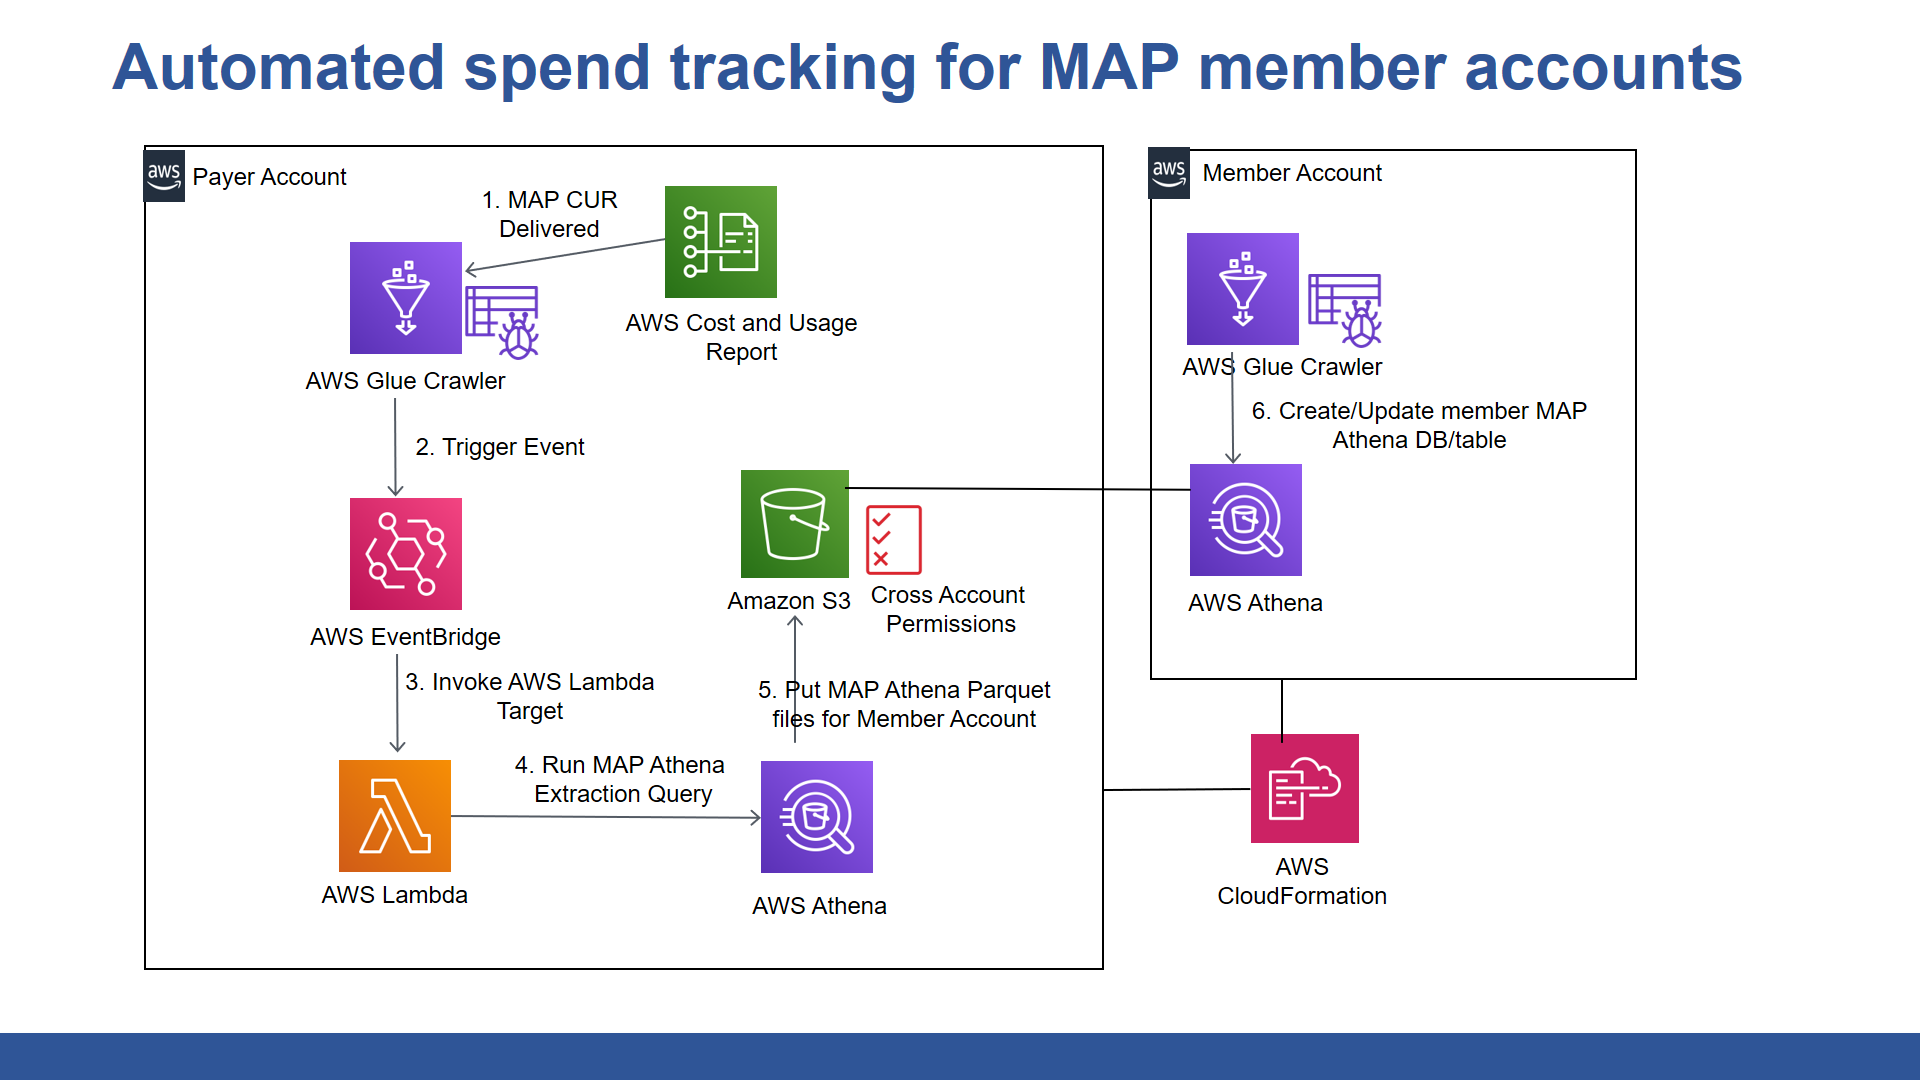
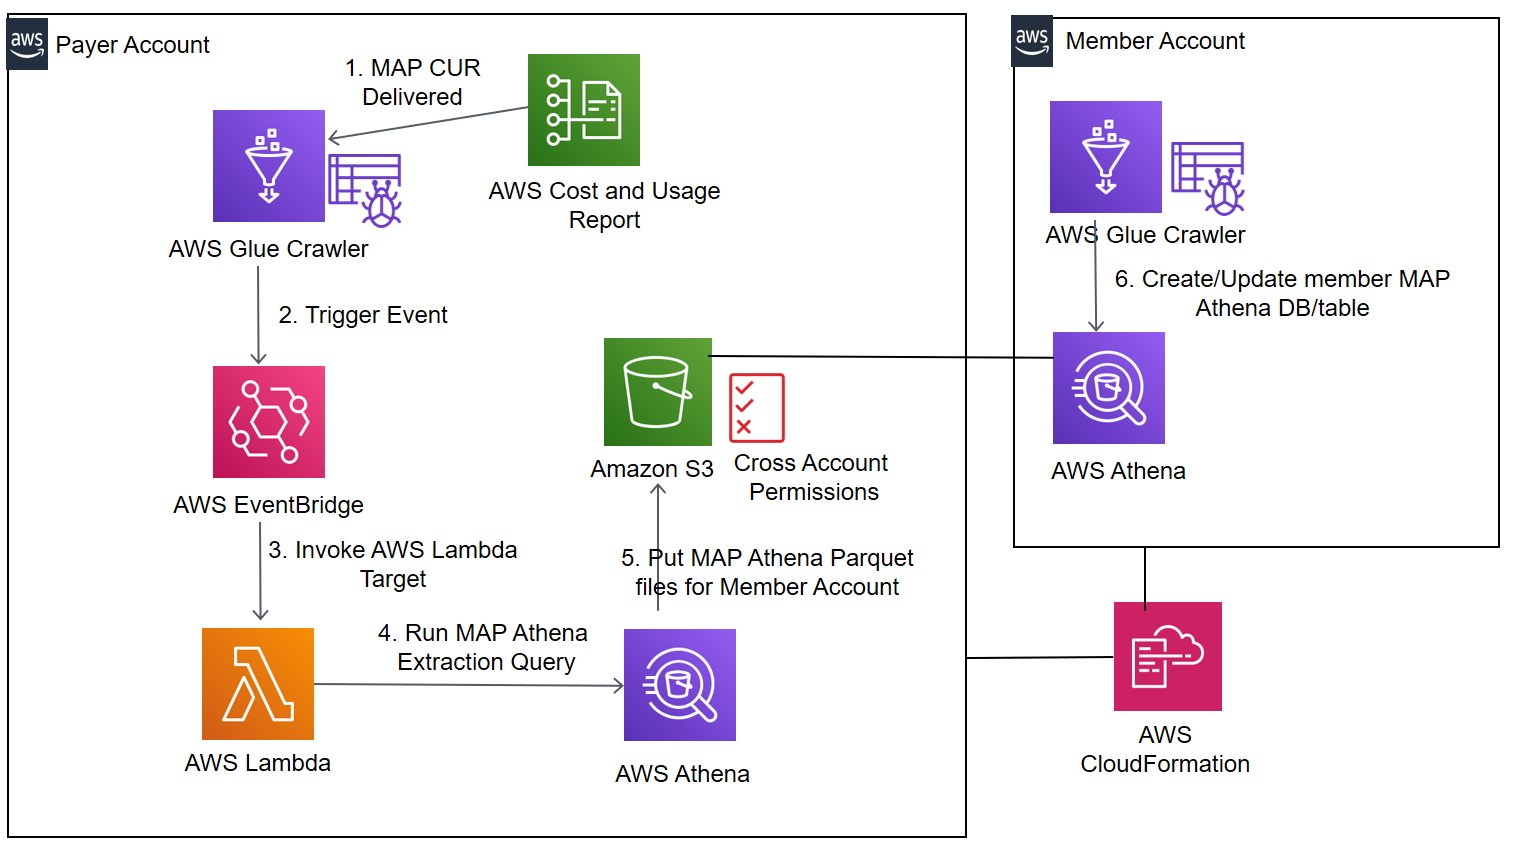
updated arch

diff --git a/README.md b/README.md
@@ -1,19 +1,22 @@
 <p align="center">
 </p>
 
-# Automating spend and credits tracking for member accounts in the AWS Migration Acceleration Program (MAP) 
+# Automating spend tracking for MAP member accounts
 
 Provides fully automated tracking to member account owners on both their spend and credits for their MAP tagged resources
 
 
 ## How it Works
 
-1.	A custom AWS Config Rule uses the AWS Config Rule Development Kit and CloudKnox REST API to record and evaluate a CloudKnox PCI (Privilege Creep Index) score for every AWS IAM user in your AWS account
-2.	If the CloudKnox PCI score is high for that AWS IAM user then AWS Config triggers an automated remediation in real time using AWS Systems Manager Automation
-3.	The AWS Systems Manager Automation invokes an AWS Lambda function for rightsizing the permissions of an AWS IAM user with a high Privileged Creep Index (PCI) score
-4.	The AWS Lambda function invokes the CloudKnox Just Enough Privileges (JEP) Controller REST API to retrieve the rightsized IAM policy for the user based on the user’s previous activity
-5.	The AWS Lambda function provisions the retrieved AWS IAM policy to the user and rightsizes the user’s permissions
-
+1. Provisions a AWS CloudWatch Events Rule in the payer account that is triggered based on the successful completion of the AWS Glue Crawler.
+a.	 The Crawler runs in the payer account each time a MAP CUR report is delivered there and creates/updates the Athena database and table for the MAP CUR report
+2. Provisions an output results S3 bucket in the payer account with an attached event notification to assign view permissions to objects in the S3 bucket to the member account
+3. Provisions an AWS Lambda as a target of the CloudWatch Events Rule. 
+a.	The AWS Lambda runs a customized Athena query specific to MAP tagged resources in the member account.
+b.	The Athena query results for the MAP tagged resources in the member account are dropped in the output results S3 bucket.
+4. Provisions an AWS Glue Crawler in the member account that has cross account access to the output results S3 bucket in the payer account	
+a.	 The AWS Glue Crawler creates an Athena database and table in the member account. This enables member account owner to view and query data for MAP tagged resources specific to their account. 
+5.	Steps 1-4 above are fully automated in AWS CloudFormation. It is deployed with 1-click automation. It requires no AWS related configurations to be performed by the AWS administrator.
 
 
 ## Solution Design
@@ -24,22 +27,19 @@ Provides fully automated tracking to member account owners on both their spend a
 
 **Prerequisites**
 
-1.	Follow the step by step instructions in the CloudKnox documentation to set up and enable CloudKnox to securely collect AWS CloudTrail logs from your AWS account - https://docs.cloudknox.io/
+1.	Set up Athena integration for MAP based Cost and Usage Reports in the Payer Account as documented here - https://docs.aws.amazon.com/cur/latest/userguide/cur-query-athena.html
 
 
 **Setup** 
 
 2 step install:
 
-1.	Set up the custom AWS Config Rule to evaluate the CloudKnox PCI score for the IAM user
-	1.	Follow the Installation steps  of the AWS Config Rule Development Kit (RDK) to set up the prerequisites and install the AWS Config RDK - https://rdk.readthedocs.io/en/latest/getting_started.html#installation
-	2.	Download the custom AWS Config rule from the CLOUDKNOX_PCI.zip file provided in our GitHub repository
-	3.	Unzip the file above and go to the directory where your RDK Rule files have been unzipped.  For e.g. if the RDK rule folder is named CLOUDKNOX_PCI then cd to that folder
-	4.	Deploy the rule by following the deployment instructions as outlined in the RDK. 
+1.	Payer Account - Launch the **aws-map-spendvisibility.yml** templa.ymlte
+	1.	Provisions steps 1-3 described above in the 'How it Works section
 
-2.	Set up the AWS Config Remediation based continuous permissions rightsizing.
-	1. Launch the **aws-cloudknox-configremediation.yml** template.
-	2. Substitute the <AccountId> and <Region> with the AWS Account ID and AWS Region where you have deployed this template
+2.	Member Account - Launch the **aws-map-linkedaccountcrawler.yml** template
+	1. Provisions step 4 described above in the How it Works section
+
 
 
 
